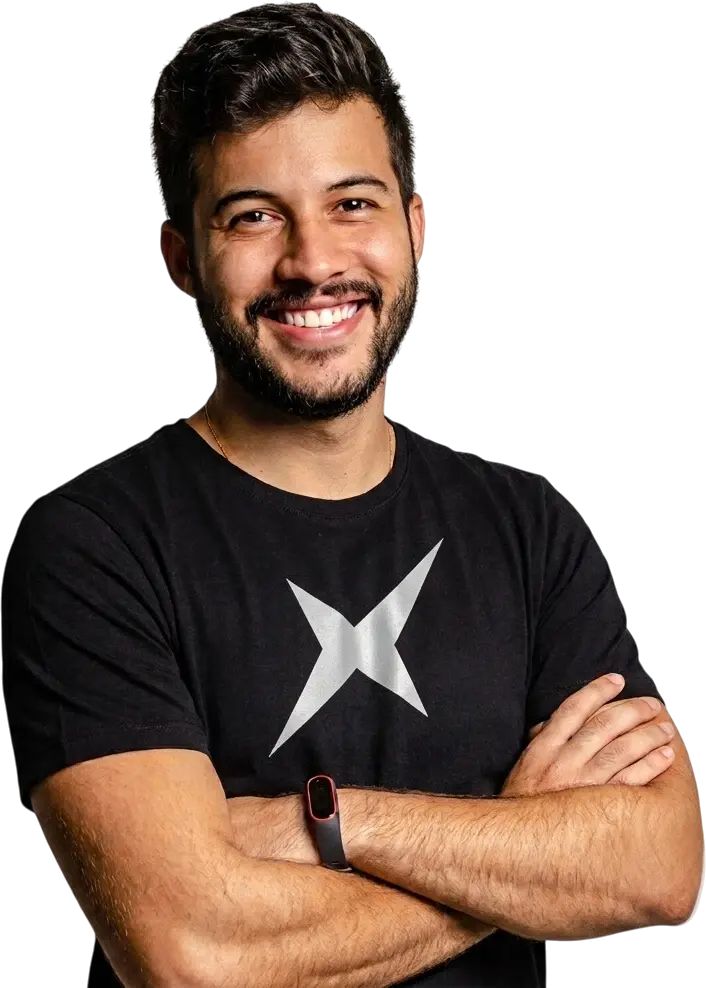
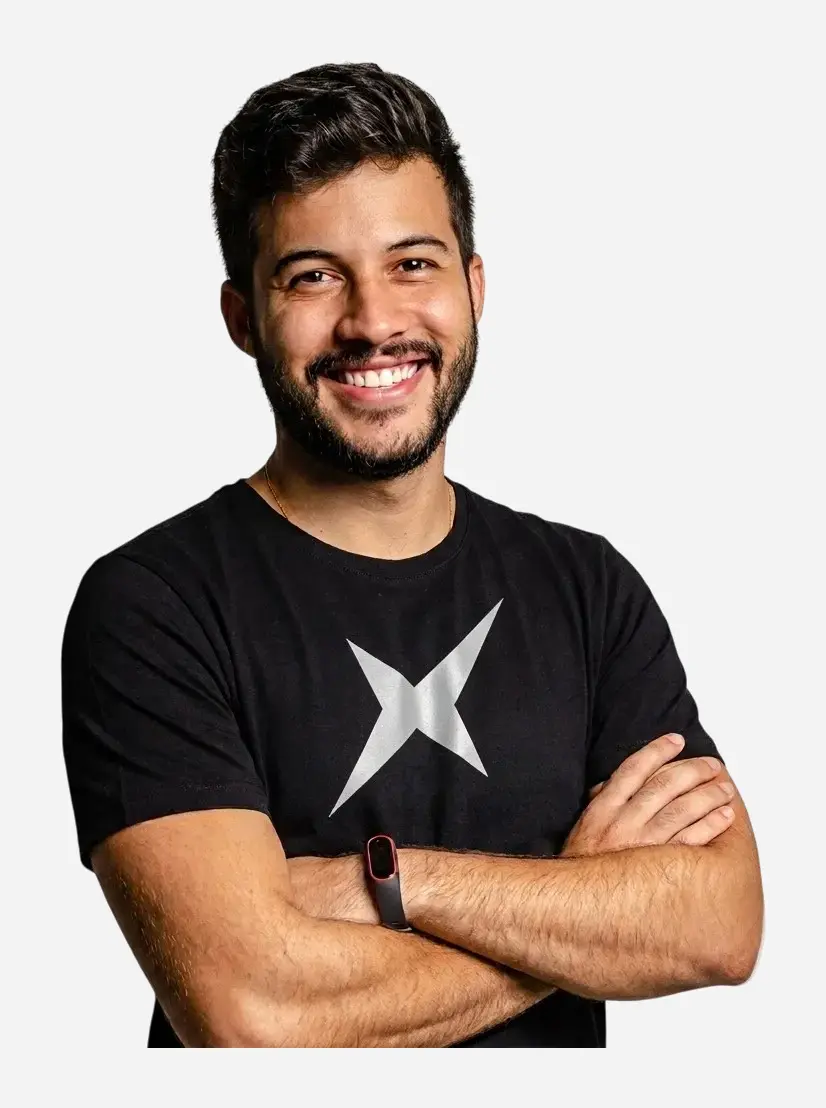
Landing: imágenes de sección con fondo gris ya integrado (sin doble marco)
Las WebP ahora traen su propio fondo gris (#F3F3F3) integrado. SectionImage se
simplifica: el contenedor deja de añadir bg-gris y padding (evita el doble
gris/marco) y aplica rounded-2xl a la propia imagen.
- Mismo ancho máximo (420px) centrado; en móvil, ancho disponible con margen
  lateral. Altura según la proporción real de cada imagen.
- width/height reales actualizados (como 959x955, faq 826x1108,
  servicios 1020x839) para evitar layout shift. next/image, lazy, sizes ~420px.

Verificado: ancho 342 (móvil) / 420 (desktop) igual en las tres, esquinas
redondeadas, contenedor sin fondo ni padding; alturas adaptadas; sin overflow.

diff --git a/src/components/SectionImage.tsx b/src/components/SectionImage.tsx
@@ -3,13 +3,13 @@ import Image from "next/image";
 // Imagen destacada de sección: patrón único y reutilizable para las tres
 // secciones (Cómo funciona, FAQs, Servicios).
 //
-// Las WebP están recortadas (el sujeto llena el archivo), así que cada una tiene
-// su propia proporción. El marco gris NO es cuadrado: se adapta a la imagen.
+// Las WebP ya traen su propio fondo gris de marca (#F3F3F3) integrado, con el
+// sujeto centrado y margen uniforme. Por eso el contenedor NO añade otro fondo
+// ni padding (evita el doble marco/gris): solo aplica esquinas redondeadas a la
+// propia imagen y unifica el ancho.
 // - Mismo ancho máximo (420px), centrado; en móvil ocupa el ancho disponible.
-// - Fondo gris de marca (#F3F3F3), esquinas redondeadas.
-// - Padding interior uniforme y reducido (p-6) idéntico en las tres.
-// - La imagen rellena el ancho interior; el alto del cuadro sigue la proporción
-//   real de la imagen (width/height evitan el layout shift; sin deformar).
+// - La imagen rellena el ancho sin deformar; el alto sigue su proporción real
+//   (width/height evitan el layout shift).
 export default function SectionImage({
   src,
   alt,
@@ -22,15 +22,15 @@ export default function SectionImage({
   height: number;
 }) {
   return (
-    <div className="mx-auto mt-8 w-full max-w-[420px] rounded-2xl bg-gris p-6 md:mt-10">
+    <div className="mx-auto mt-8 w-full max-w-[420px] md:mt-10">
       <Image
         src={src}
         alt={alt}
         width={width}
         height={height}
-        sizes="(min-width: 468px) 372px, calc(100vw - 96px)"
+        sizes="(min-width: 468px) 420px, calc(100vw - 48px)"
         loading="lazy"
-        className="h-auto w-full object-contain"
+        className="h-auto w-full rounded-2xl"
       />
     </div>
   );

diff --git a/src/components/Faq.tsx b/src/components/Faq.tsx
@@ -57,8 +57,8 @@ export default function Faq() {
         <SectionImage
           src="/faq-operario.webp"
           alt="Operario de Mudanzas X resolviendo dudas frecuentes sobre la mudanza"
-          width={706}
-          height={988}
+          width={826}
+          height={1108}
         />
 
         {/* Acordeón de preguntas (contenido intacto). */}

diff --git a/src/components/HowItWorks.tsx b/src/components/HowItWorks.tsx
@@ -39,8 +39,8 @@ export default function HowItWorks() {
         <SectionImage
           src="/como-funciona-movil.webp"
           alt="La web de Mudanzas X en el móvil para pedir presupuesto de mudanza en Barcelona"
-          width={839}
-          height={835}
+          width={959}
+          height={955}
         />
 
         {/* Pasos del proceso: secuencia encadenada con conector vertical. */}

diff --git a/src/components/Servicios.tsx b/src/components/Servicios.tsx
@@ -65,8 +65,8 @@ export default function Servicios() {
         <SectionImage
           src="/servicios-vivienda.webp"
           alt="Vivienda moderna representando los servicios de mudanzas de Mudanzas X en Barcelona"
-          width={900}
-          height={719}
+          width={1020}
+          height={839}
         />
 
         <div className="mt-12 grid grid-cols-1 gap-x-12 gap-y-9 sm:grid-cols-2 md:mt-16 md:gap-y-11">